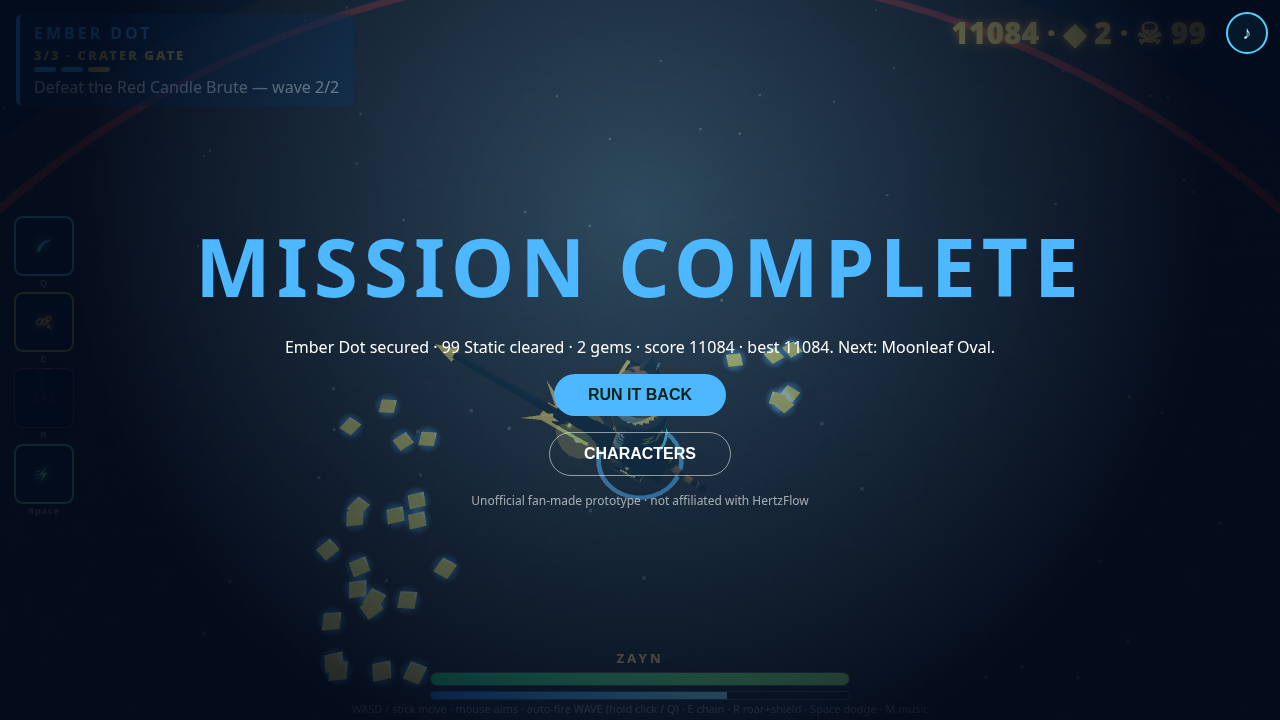
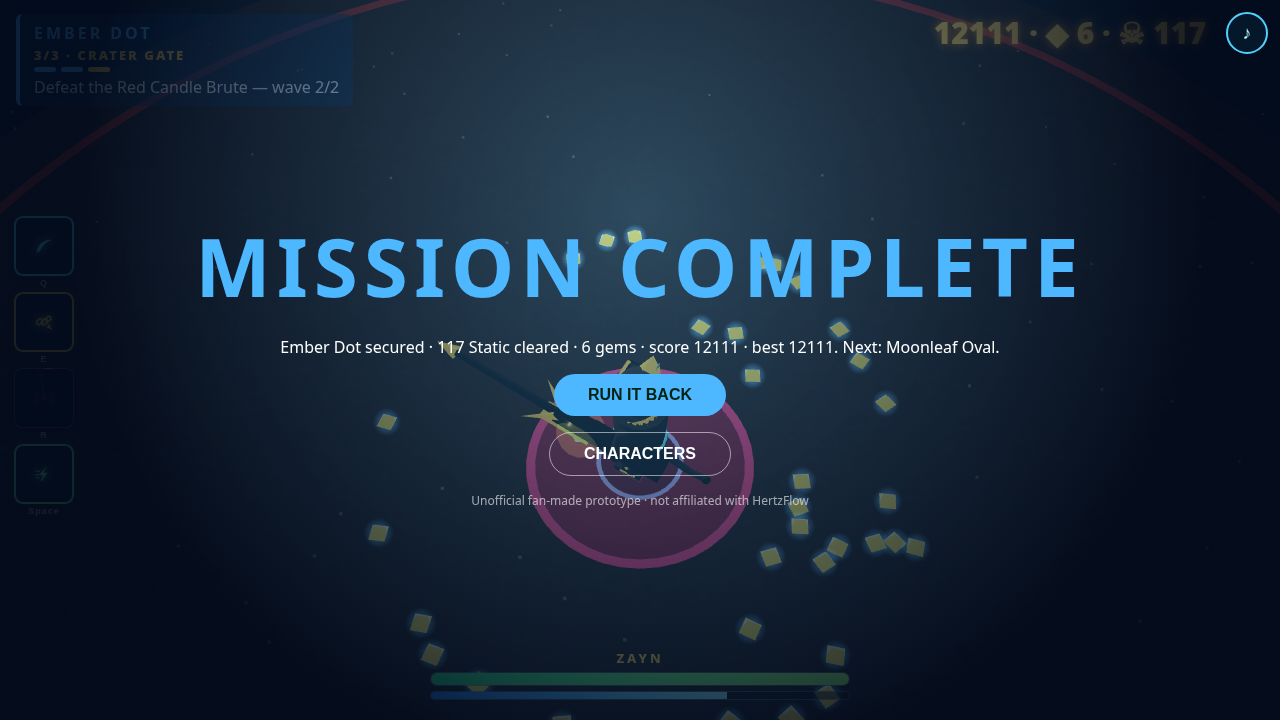
AD morning retunes: cyan-only shield (no gold underfoot ring, cyan ROAR ring), Zayn combat read (dark mass + gold ears/collar/tip), hide combat help footer, roster silhouette note, sec-3-brute shot + retaken shots

diff --git a/public/game.js b/public/game.js
@@ -126,7 +126,7 @@ function makeZayn() {
   // tiger head
   const head = new THREE.Mesh(new THREE.SphereGeometry(.72, 20, 14), fur); head.position.y = 3.85; head.scale.set(1, .95, 1);
   const ruff = new THREE.Mesh(new THREE.SphereGeometry(.62, 14, 8), M(0xfff3e0, 0, { roughness: 1 })); ruff.position.set(0, 3.45, .12); ruff.scale.set(1.25, .6, 1.05);
-  const mkEar = sx => { const e = new THREE.Mesh(new THREE.ConeGeometry(.32, .5, 6), M(0x1a120c)); e.position.set(sx * .56, 4.55, -.05); e.rotation.z = -sx * .35;
+  const earM = M(0x1a120c); const mkEar = sx => { const e = new THREE.Mesh(new THREE.ConeGeometry(.32, .5, 6), earM); e.position.set(sx * .56, 4.55, -.05); e.rotation.z = -sx * .35;
     const w = new THREE.Mesh(new THREE.CircleGeometry(.11, 8), M(0xffffff)); w.position.set(0, -.02, -.2); w.rotation.y = Math.PI; e.add(w); return e; };
   const muzzle = new THREE.Mesh(new THREE.SphereGeometry(.34, 12, 8), M(0xfff1dc, 0, { roughness: 1 })); muzzle.position.set(0, 3.62, .58); muzzle.scale.set(1.1, .7, .7);
   const nose = new THREE.Mesh(new THREE.SphereGeometry(.1, 8, 6), M(0x2a1410)); nose.position.set(0, 3.74, .82);
@@ -169,7 +169,11 @@ function makeZayn() {
   const bl = new THREE.PointLight(0xffc83d, 5, 8); bl.position.set(0, -1.3, 1.6); armR.add(bl);
   const shadow = new THREE.Mesh(new THREE.CircleGeometry(1.2, 20), new THREE.MeshBasicMaterial({ color: 0, transparent: true, opacity: .3 })); shadow.rotation.x = -Math.PI / 2; shadow.position.y = .05;
   g.add(legL, legR, body, hem, trim, head, ruff, mkEar(-1), mkEar(1), muzzle, nose, shades, chain, collar, pendant, tail, armL, armR, shadow);
-  g.userData = { legL, legR, armR, blade, core, tail }; g.scale.setScalar(1.6); return g;
+  const shirtM = body.material[0], dark = [[fur, 0x2a2224], [shirtM, 0x17161b], [slv, 0x17161b], [tm, 0x2a2224], [ruff.material, 0x34302e], [muzzle.material, 0x34302e]];
+  dark.forEach(([m]) => { m.userData.map = m.map; m.userData.col = m.color.getHex(); });
+  const combat = on => { dark.forEach(([m, c]) => { m.map = on ? null : m.userData.map; m.color.setHex(on ? c : m.userData.col); m.needsUpdate = true; });
+    earM.color.setHex(on ? 0xffc83d : 0x1a120c); earM.emissive.setHex(on ? 0xffc83d : 0); earM.emissiveIntensity = on ? .6 : 0; }; // combat read: dark mass + gold ears/collar/tip
+  g.userData = { legL, legR, armR, blade, core, tail, combat }; g.scale.setScalar(1.6); return g;
 }
 // ===== roster: every Signal Keeper is playable (fan build). `zayn` is the player rig; the model inside swaps. =====
 const CHARS = {
@@ -365,7 +369,7 @@ const gems = [];
 
 // ===== shield bubble =====
 const shield = new THREE.Mesh(new THREE.SphereGeometry(3.2, 24, 16), new THREE.MeshBasicMaterial({ color: 0x3ef2ff, transparent: true, opacity: .22, blending: THREE.AdditiveBlending, depthWrite: false }));
-const shieldRim = new THREE.Mesh(new THREE.TorusGeometry(3.2, .3, 6, 48), glow(0xffc83d)); shieldRim.rotation.x = Math.PI / 2; shieldRim.material.opacity = 1; shieldRim.position.y = -1.6; shield.add(shieldRim);
+const shieldRim = new THREE.Mesh(new THREE.TorusGeometry(3.2, .3, 6, 48), glow(0xffc83d)); shieldRim.rotation.x = Math.PI / 2; shieldRim.material.opacity = 1; shieldRim.position.y = -1.6; shieldRim.visible = false; shield.add(shieldRim);
 shield.visible = false; scene.add(shield);
 
 // ===== 2D overlay: thin red HP bars + bouncy white damage numbers =====
@@ -413,7 +417,7 @@ const banner = (t, c = '#fff') => { const b = $('#banner'); b.textContent = t; b
 const fade = (on) => $('#fade').style.opacity = on ? 1 : 0;
 const show = (id, on) => $(id).classList.toggle('hide', !on);
 const BG_DAY = new THREE.Color(0xffc49a), BG_DARK = new THREE.Color(0x0a0c12);
-function setArena(on) { arena.visible = on; decor.forEach(o => o.visible = !on); ocean.visible = !on; scene.background = on ? BG_DARK : BG_DAY; scene.fog.color.set(on ? 0x0a0c12 : 0xffd2a8); scene.fog.near = on ? 60 : 90; scene.fog.far = on ? 140 : 320; sky.visible = !on; }
+function setArena(on) { const zc = MODELS.zayn && MODELS.zayn.userData.combat; if (zc) zc(on); arena.visible = on; decor.forEach(o => o.visible = !on); ocean.visible = !on; scene.background = on ? BG_DARK : BG_DAY; scene.fog.color.set(on ? 0x0a0c12 : 0xffd2a8); scene.fog.near = on ? 60 : 90; scene.fog.far = on ? 140 : 320; sky.visible = !on; }
 
 function clearField() { enemies.forEach(e => e.mesh && scene.remove(e.mesh)); enemies.length = 0; gems.length = 0; nums.length = 0; decals.forEach(d => scene.remove(d.m)); decals.length = 0; }
 function startCine() {
@@ -516,7 +520,7 @@ const act = {
       if (md === 'pulse') { hitAll(14, 16, 14, 1); for (const k of [1, 2]) setTimeout(() => { const q = zayn.position.clone().setY(0); ring(q, c, 16, .4, .3, .05); for (const e of [...enemies]) { const d = e.pos.clone().sub(q).setY(0); if (d.length() < 15) { e.stun = 1; damage(e, 16, d.normalize().multiplyScalar(12)); } } sfx('boom'); }, k * 260); }
       if (md === 'blink') { const f = aimDir(), q = p.clone().add(f.multiplyScalar(13)); boom(p, c, 6, 35, 14); zayn.position.set(q.x, .3, q.z); S.iframes = 1; boom(q, c, 6, 35, 14); }
       if (md === 'frenzy') { S.frenzy = 5; S.hp = Math.min(CH.hp, S.hp + 15); hitAll(10, 20, 16, .6); }
-      S.quiet = false; return; } ring(p, 0xffc83d, 16, .45, .3, .05); ring(p, SKY, 12, .3, .3, .04); flash(p.clone().setY(2), 0xffffff, 3, .12);
+      S.quiet = false; return; } ring(p, 0x3ef2ff, 16, .45, .3, .05); ring(p, SKY, 12, .3, .3, .04); flash(p.clone().setY(2), 0xffffff, 3, .12);
     burst(p.clone().setY(1), [0xffc83d, SKY], 50, 22, 4); S.quiet = true;
     for (const e of [...enemies]) { const d = e.pos.clone().sub(p).setY(0); if (d.length() < 15) { e.stun = 2; damage(e, 30, d.normalize().multiplyScalar(22)); } } S.quiet = false;
     S.buff = 5; S.shake = .8; banner(CH.roar.name + '!', '#3ef2ff'); },
@@ -648,7 +652,7 @@ function tick(now) {
     for (const gm of gems) { o3.position.set(gm.p.x, .9 + Math.sin(gm.t * 4) * .2, gm.p.z); o3.rotation.set(0, gm.t * 3, 0); o3.scale.setScalar(1); o3.updateMatrix(); gemIM.setMatrixAt(g, o3.matrix); gemGlowPos[g * 3] = o3.position.x; gemGlowPos[g * 3 + 1] = o3.position.y; gemGlowPos[g * 3 + 2] = o3.position.z; g++; }
     gemIM.count = g; gemIM.instanceMatrix.needsUpdate = true; gemGlow.geometry.setDrawRange(0, g); gemGlow.material.opacity = .65 + Math.sin(S.t * 6) * .3; gemGlow.geometry.attributes.position.needsUpdate = true;
     // shield bubble (dodge i-frames / ROAR buff)
-    const sh = S.iframes > 0 || S.buff > 0; shield.visible = sh && S.mode === 'play'; if (sh) { shield.position.set(zp.x, 2.4, zp.z); shield.scale.setScalar(1 + Math.sin(S.t * 10) * .04); shield.material.opacity = S.iframes > 0 ? .35 : .2; shieldRim.rotation.z += dt * 2; }
+    const sh = S.iframes > 0 || S.buff > 0; shield.visible = sh && S.mode === 'play'; if (sh) { shield.position.set(zp.x, 2.4, zp.z); shield.scale.setScalar(1 + Math.sin(S.t * 10) * .04); shield.material.opacity = S.iframes > 0 ? .38 : .3; shieldRim.rotation.z += dt * 2; }
     // fixed isometric follow camera
     const narrow = cam.aspect < 1; if (cam.fov !== (narrow ? 55 : 42)) { cam.fov = narrow ? 55 : 42; cam.updateProjectionMatrix(); }
     v3.copy(zp).add(ISO); v3.z -= 6; cam.position.lerp(v3, Math.min(1, dt * 6)); S.shake = Math.max(0, S.shake - dt);

diff --git a/public/style.css b/public/style.css
@@ -77,3 +77,4 @@ body.touch #pw{left:auto;right:14px;top:auto;bottom:70px;transform:none;display:
 body.touch .p,body.touch .p.big{width:52px;height:52px}body.touch .p kbd{display:none}
 @media (max-width:600px){.p,.p.big{width:48px;height:48px}}
 body:not(.touch) #stick{display:none}
+#hud #help{display:none}
